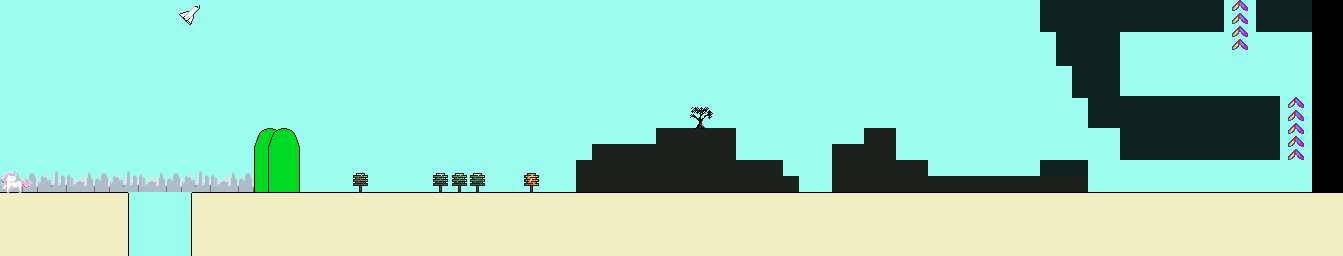
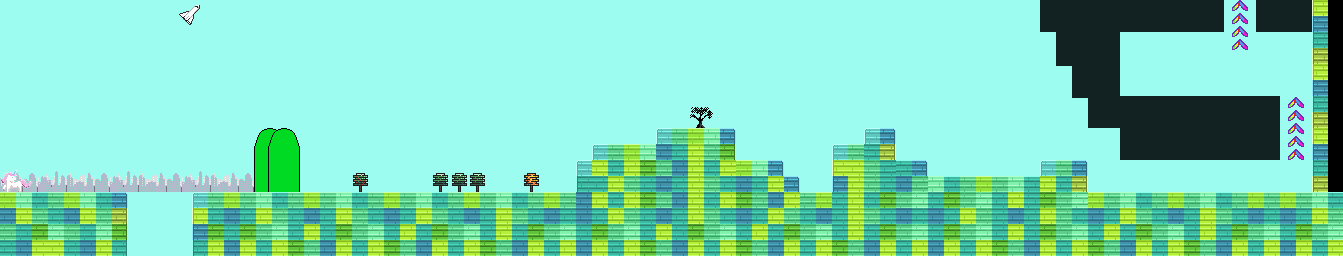
new map

diff --git a/src/actors/Platform.js b/src/actors/Platform.js
@@ -6,9 +6,11 @@ import { Images } from "../resources.js";
 const blockSprite = Images.blockImage.toSprite();
 
 export class Platform extends ex.Actor {
-  constructor(x, y, cols, rows) {
+  constructor(x, y, cols, rows, dir) {
     const SIZEW = 20;
     const SIZEH = 16;
+
+   
 
     super({
       name: "Platform",
@@ -19,28 +21,40 @@ export class Platform extends ex.Actor {
       anchor: ex.Vector.Zero,
       collider: ex.Shape.Box(SIZEW * cols, SIZEH * rows, ex.Vector.Zero),
       collisionType: ex.CollisionType.Fixed,
-    //   color: ex.Color.Black,
+      //   color: ex.Color.Black,
     });
+
+    this.dir = dir
 
     // const blockSprite = Images.blockImage.toSprite();
 
     for (let i = 0; i < cols; i++) {
-        for (let j = 0; j < rows; j++) {
-            console.log(i,j)
-            // this.graphics.use(blockSprite);
-            this.graphics.show(blockSprite, { 
-                anchor: ex.Vector.Zero,
-                offset: ex.vec( i * blockSprite.width, j * blockSprite.height)
-            })
-        }
+      for (let j = 0; j < rows; j++) {
+        console.log(i, j)
+        // this.graphics.use(blockSprite);
+        this.graphics.show(blockSprite, {
+          anchor: ex.Vector.Zero,
+          offset: ex.vec(i * blockSprite.width, j * blockSprite.height)
+        })
+      }
     }
 
-   
+
     // this.graphics.opacity = 0.0;
 
     this.isPlatform = true;
   }
   onInitialize(engine) {
     // new DrawShapeHelper(this);
+
+    // this.actions.delay(1000)
+    //   .repeatForever(ctx => ctx
+    //     .moveBy(400 * this.dir, 0, 100)
+    //     .moveBy(-400 * this.dir, 0, 100));
+
+        this.actions.delay(1000)
+        .repeatForever(ctx => ctx
+          .moveBy(0, 100 * this.dir, 150)
+          .moveBy(0, -100 * this.dir, 150));
   }
 }

diff --git a/src/actors/Hero/Hero.js b/src/actors/Hero/Hero.js
@@ -64,6 +64,7 @@ export class Hero extends ex.Actor {
     //Identifier
     this.isHero = true;
     this.onGround = false;
+    this.onPlatform = true;
 
     // States
     this.painState = null;
@@ -119,6 +120,7 @@ export class Hero extends ex.Actor {
   }
 
   onCollisionEnd(evt) {
+    console.log('onCollisionEnd:',evt.other)
     if (evt.other.hasTag(TAG_LADDER)) {
       this.ladderOverlap = null;
     }
@@ -129,6 +131,10 @@ export class Hero extends ex.Actor {
 
   onPostCollision(evt) {
     if (evt.other.isFloor && evt.side === ex.Side.Bottom || evt.other.isPlatform && evt.side === ex.Side.Bottom) {
+      // console.log('collided with :',evt.other, evt.side )
+
+      if(evt.other.isPlatform && evt.side === ex.Side.Bottom)  this.onPlatform = true;
+
       if (!this.onGround) {
         Sounds.LANDING.play();
       }
@@ -178,8 +184,10 @@ export class Hero extends ex.Actor {
       }
     });
 
+    console.log(this.vel.y)
     //Reset grounding
     if (this.vel.y !== 0) {
+      if(this.onPlatform) return;
       this.onGround = false;
     }
     // Always downtick timers

diff --git a/src/stages/DrewMan_Stage.js b/src/stages/DrewMan_Stage.js
@@ -16,6 +16,7 @@ const room1 = new Room({
       y: 10,
       widthCells: 3, // 82,
       heightCells: 1,
+      dir: 1
     },
     {
      
@@ -23,6 +24,7 @@ const room1 = new Room({
       y: 7,
       widthCells: 3, // 82,
       heightCells: 1,
+      dir: 1
     },
     {
     
@@ -30,6 +32,7 @@ const room1 = new Room({
       y: 4,
       widthCells: 3, // 82,
       heightCells: 1,
+      dir: 1
     }
 
   ],

diff --git a/src/actors/Room.js b/src/actors/Room.js
@@ -34,7 +34,7 @@ export class Room extends ex.Actor {
       const x = this.pos.x + f.x * SCALED_CELL;
       const y = this.pos.y + f.y * SCALED_CELL;
 
-      const platform = new Platform(x, y, f.widthCells, f.heightCells);
+      const platform = new Platform(x, y, f.widthCells, f.heightCells, f.dir);
       engine.add(platform);
     });
 
